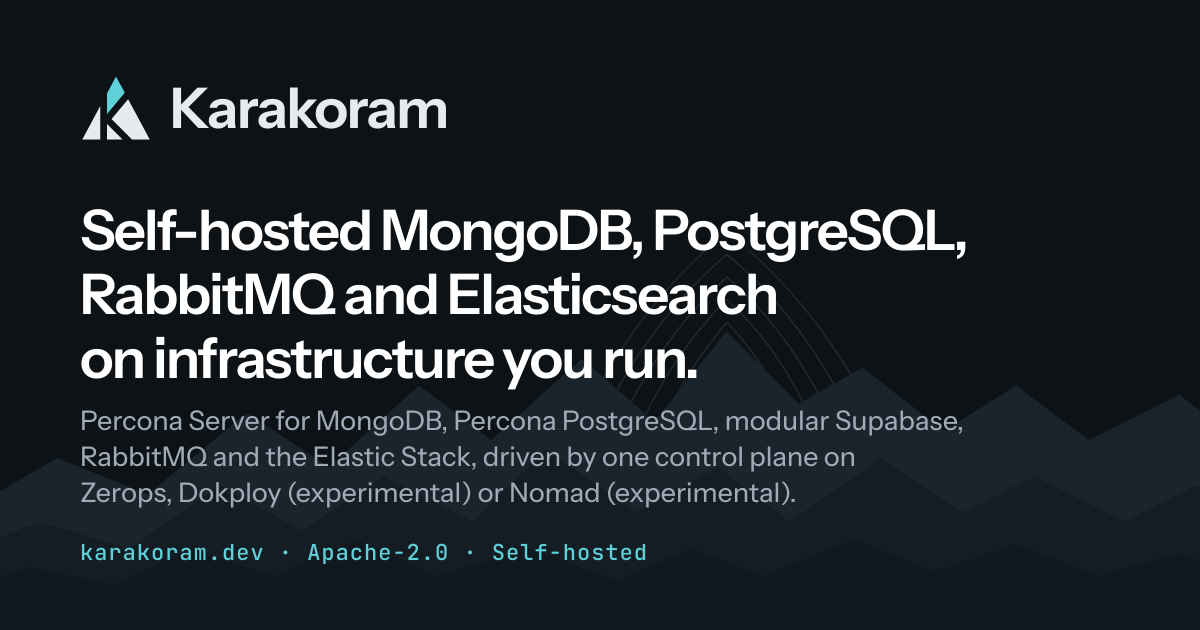
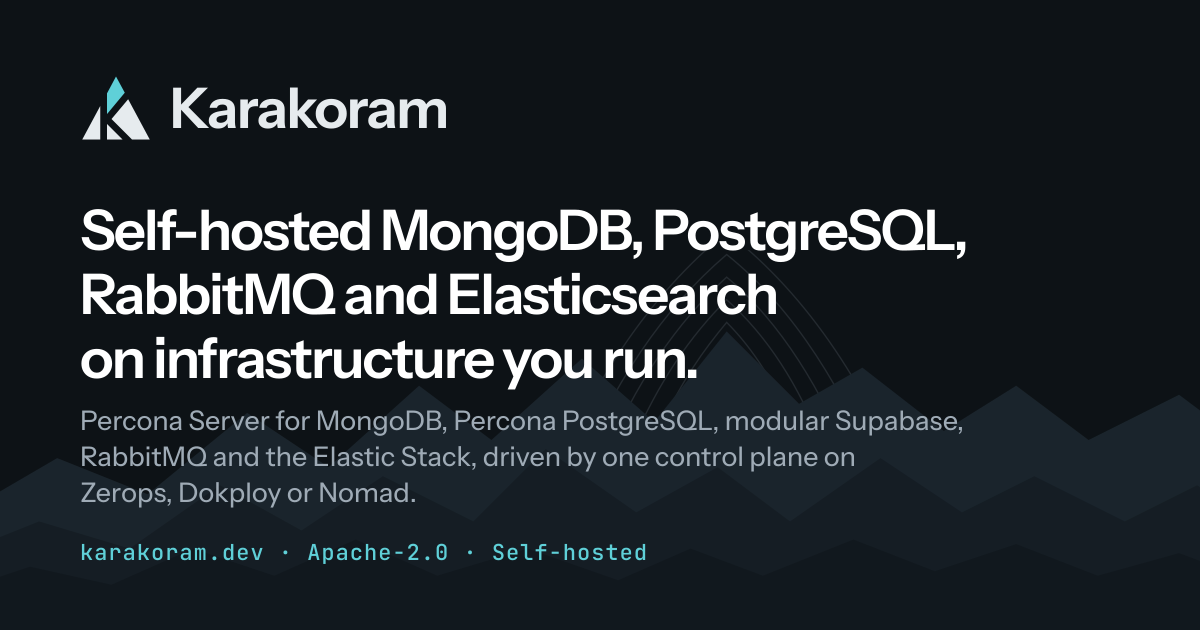
docs: simplify backend status copy across the site

Changed region(s): [[0.2467, 0.754, 0.6475, 0.8143]]

diff --git a/README.md b/README.md
@@ -3,8 +3,7 @@
 Source for [karakoram.dev](https://karakoram.dev), the website and documentation
 of [Karakoram](https://github.com/KarakoramDev/Karakoram) — self-hosted MongoDB,
 PostgreSQL, Supabase, RabbitMQ and Elasticsearch orchestration on infrastructure
-you run: Zerops (the reference backend), Dokploy (experimental) and Nomad
-(experimental).
+you run: Zerops (the reference backend), Dokploy and Nomad.
 
 The site is a static [Astro](https://astro.build) +
 [Starlight](https://starlight.astro.build) build published with GitHub Pages:
